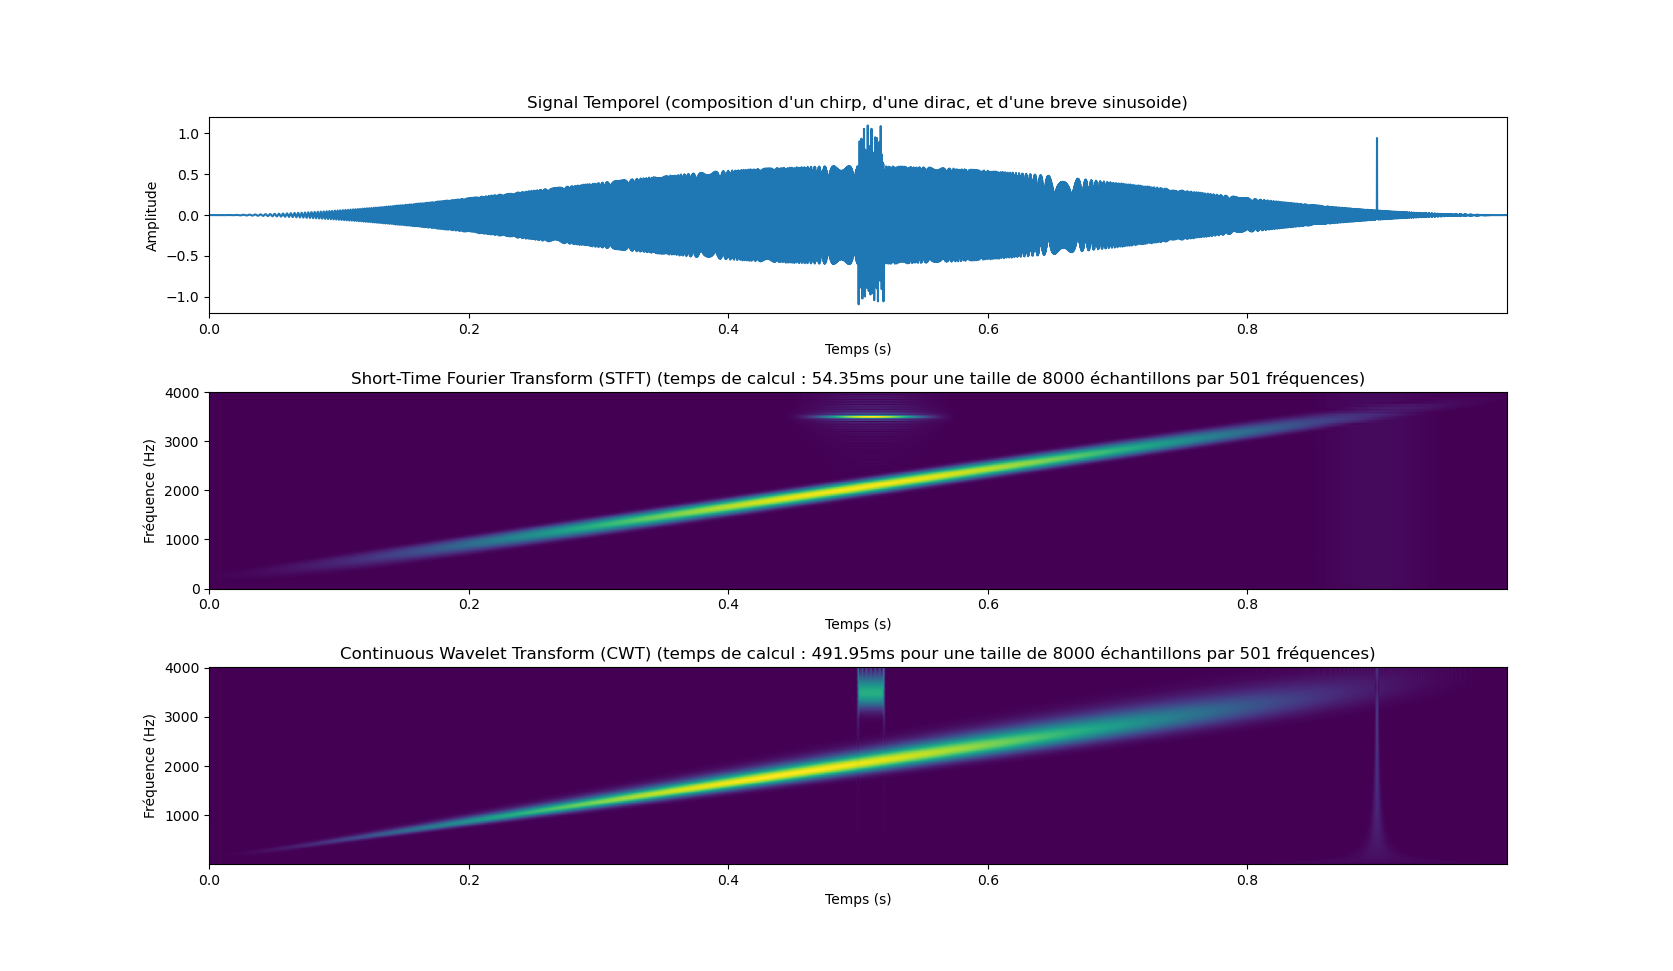
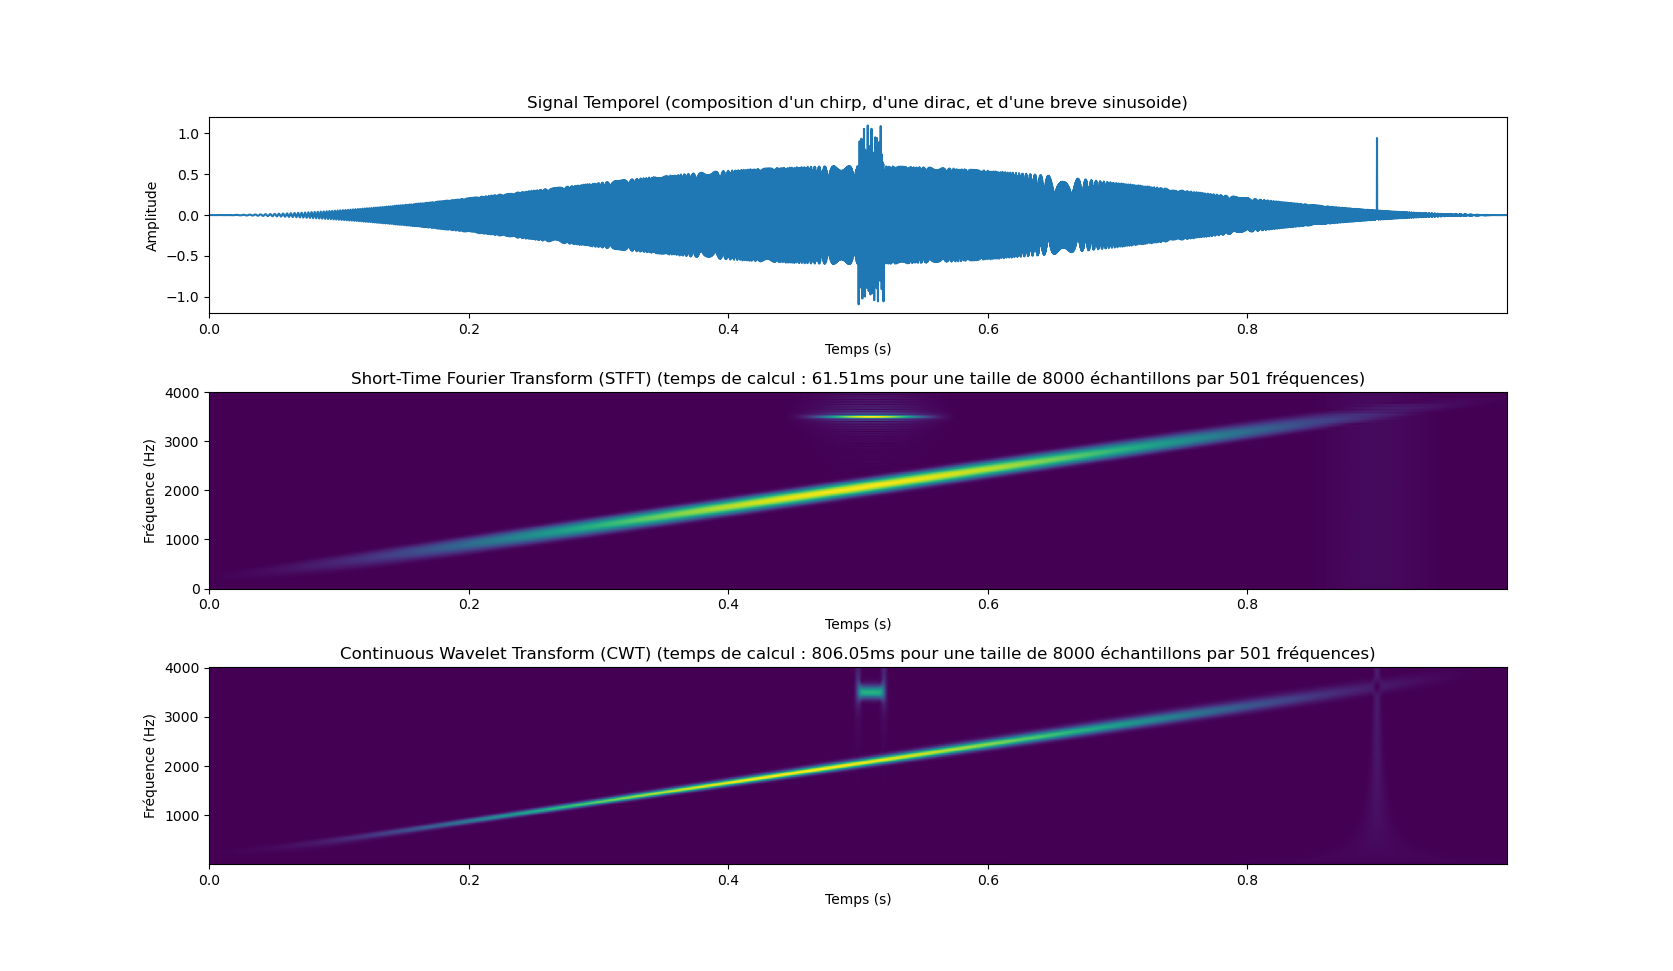
more post

Changed region(s): [[0.2176, 0.6797, 0.8081, 0.8651]]

diff --git a/posts/taille_fft/compare_sizes.cpp b/posts/taille_fft/compare_sizes.cpp
@@ -22,13 +22,9 @@ bool no_stupid_factor(T n){
 }
 
 struct result_bench bench(int size){
-  int align = 0;
-  const char * align_str=std::getenv("FFT_ALIGN");
-  if(align_str)
-    align=atoi(align_str);
   
-  fftw_complex *in = (fftw_complex*)fftw_malloc(sizeof(fftw_complex) * size + align);
-  fftw_complex *out = (fftw_complex*)fftw_malloc(sizeof(fftw_complex) * size + align);
+  fftw_complex *in = (fftw_complex*)fftw_malloc(sizeof(fftw_complex) * size);
+  fftw_complex *out = (fftw_complex*)fftw_malloc(sizeof(fftw_complex) * size);
   
 
   struct result_bench res;
@@ -36,9 +32,9 @@ struct result_bench bench(int size){
   res.size = size;
   res.mean_duration = 0;
 
-  auto p = fftw_plan_dft_1d(size, (fftw_complex*)(((char*)in)+align) ,(fftw_complex*)(((char*) out) + align), FFTW_FORWARD, FFTW_DESTROY_INPUT | FFTW_PATIENT);
+  auto p = fftw_plan_dft_1d(size, in ,out, FFTW_FORWARD, FFTW_DESTROY_INPUT | FFTW_MEASURE);
 
-  while(res.mean_duration < 10000000 || nb_runs < 10){
+  while(res.mean_duration < 1000000 | nb_runs < 100){
   for(int i = 0; i < size; i++){
     in[i][0] = rand();
     in[i][1] = rand();
@@ -62,9 +58,6 @@ struct result_bench bench(int size){
 
 int save = 0;
 
-
-
-
 int main(int argc, char * argv[]) {
   assert(argc > 1);
   const int minN = (1 << atoi(argv[1])) +1;
@@ -72,15 +65,16 @@ int main(int argc, char * argv[]) {
     auto err = fftw_import_wisdom_from_filename(WISDOM);
     printf("size;duration_ns\n");
     for (int n = minN; n <= maxN; n++) {
-      if(no_stupid_factor(n)){	
+      if(1||no_stupid_factor(n)){	
 	auto r = bench(n);
 	printf("%d;%ld\n",r.size,r.mean_duration);
+	fflush(stdout);
 	if((save++) % 100 == 0)
 	  fftw_export_wisdom_to_filename(WISDOM);    
       }
     }
 
-fftw_export_wisdom_to_filename(WISDOM);    
+    fftw_export_wisdom_to_filename(WISDOM);    
 
     return 0;
 }

diff --git a/posts/taille_fft/stft_cwt.py b/posts/taille_fft/stft_cwt.py
@@ -6,11 +6,9 @@ import time
 import scipy.constants as const
 
 # Générer un signal sinusoïdal
-fs = 8000  # fréquence d'échantillonnage en Hz
+fs = 8192  # fréquence d'échantillonnage en Hz
 t = np.linspace(0, 1, fs, endpoint=False)  # échantillonnage sur 1 seconde
 freq = 300  # fréquence du signal en Hz
-#signal_temporel = np.sin(2 * np.pi * freq * t)
-
 
 
 def add_with_shift(array1, array2, shift):
@@ -46,8 +44,6 @@ signal_temporel = add_with_shift(signal_temporel,0.5*hf,0.5)
 #high_freq_morlet = np.real(morlet(500, 100, complete=True))
 #signal_temporel[678:] += high_freq_morlet[:len(t) - 678]
 
-
-
 # Afficher le signal temporel
 plt.figure(figsize=(10, 6))
 plt.subplot(3, 1, 1)
@@ -72,7 +68,7 @@ plt.ylabel(f'Fréquence (Hz)')
 
 # Calculer et afficher la CWT
 freq = np.linspace(10, fs/2, len(f))
-w=15.0
+w=40.0
 widths = w*fs / (2*freq*np.pi)
 
 debut_cwt = time.time()
@@ -101,3 +97,4 @@ t = np.linspace(0, duration, int(sample_rate * duration), endpoint=False)  # vec
 signal = np.sin(2 * np.pi * 440 * t)  # signal sinusoidal de 440 Hz
 
 write_wav('output.wav', signal_temporel, fs)
+
